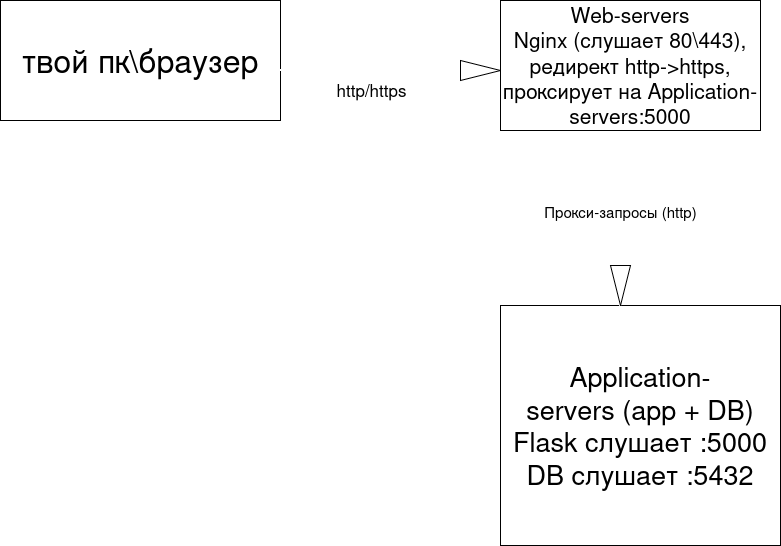
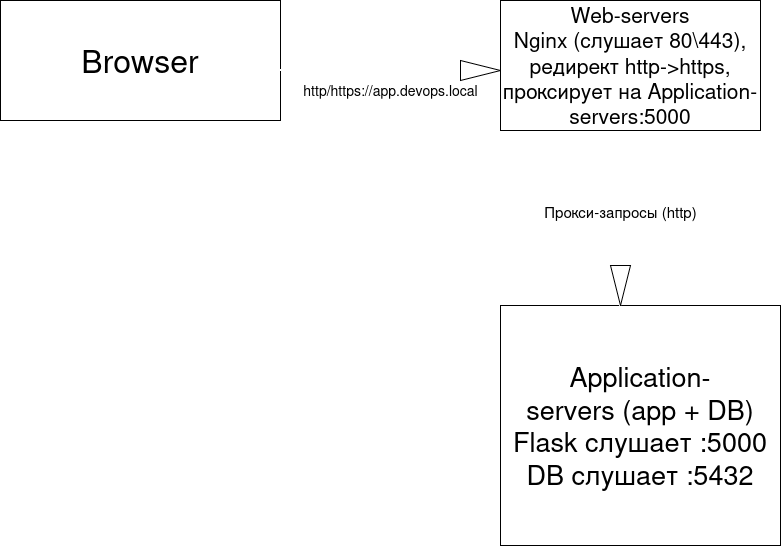
Added names to the inventory, removed variables that contained IP addresses, corrected the diagram, changed yes to true.

Changed region(s): [[0.0307, 0.0934, 0.338, 0.1557], [0.3688, 0.1557, 0.6146, 0.1868]]

diff --git a/ansible1/README.md b/ansible1/README.md
@@ -28,9 +28,8 @@
 
 1. Узнайте IP-адреса обеих ВМ с помощью команды:
    `hostname -I`.
-2. Обновите следующие файлы:
+2. Обновите следующий файл:
    - `inventory.ini` - укажите актуальные IP-адреса ВМ.
-   - `group_vars/all.yml` - задайте переменные `app_server_ip` и `nginx_ip`.
 3. На хостовой машине добавьте запись в файл `/etc/hosts`:
    - `<Web_server_ip> app.devops.local` - где <Web_server_ip> — IP-адрес второй виртуальной машины (Web Server).
 
